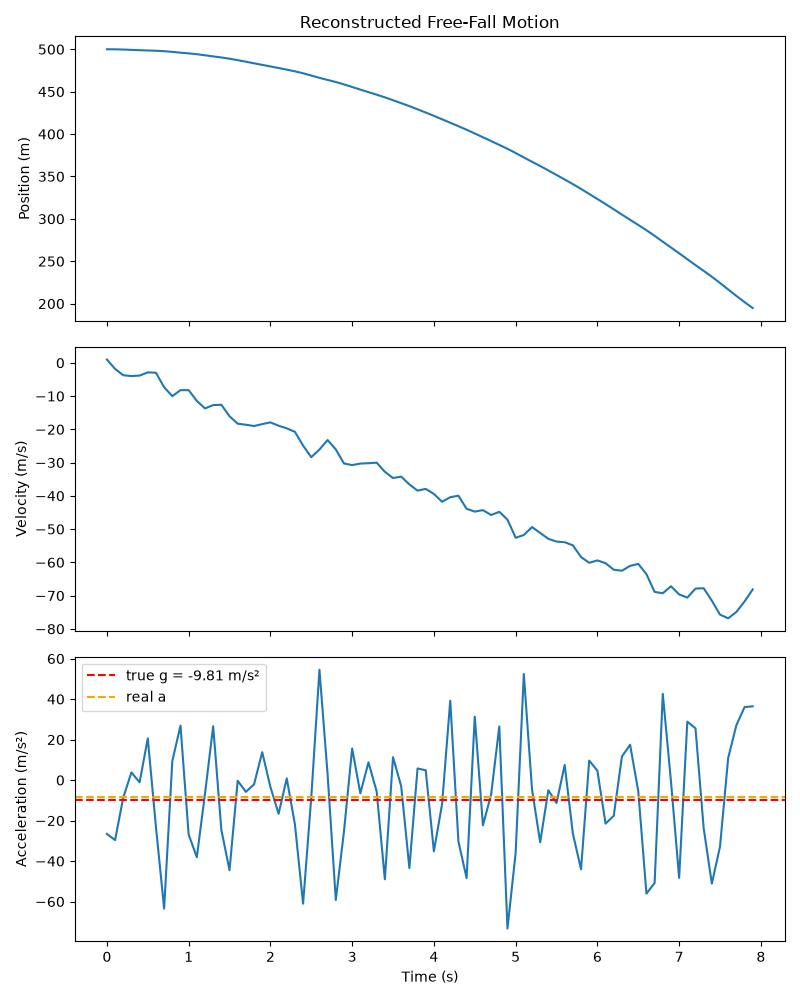
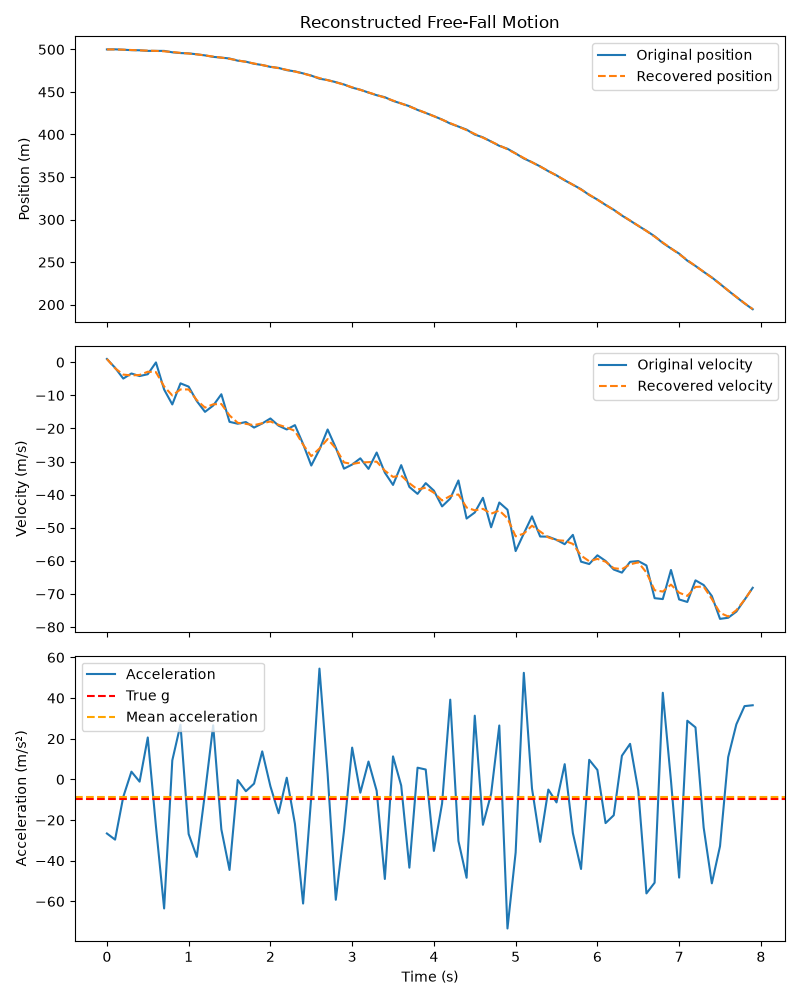
Update coursework: PW1, PW2, PW3 and PW4

diff --git a/PW2/Lab B/warm.py b/PW2/Lab B/warm.py
@@ -1,3 +1,11 @@
+"""
+PW2 Lab B Part 2 -- three routes to a minimum.
+
+Compare gradient descent, Newton, and SLSQP on two functions:
+  2A: f(x) = (x-3)**2 + 1          (easy, one minimum at x=3)
+  2B: g(x) = x**4 - 3*x**2 + x + 5 (harder, several stationary points)
+Run:  python warmup.py
+"""
 import numpy as np
 from scipy.optimize import newton, minimize
 
@@ -6,34 +14,49 @@ def grad_descent(df, x0, lr, tol=1e-8, max_iter=10000):
     for _ in range(max_iter):
         step = lr * df(x)
         x = x - step
-        if abs(step) < tol:
+        if abs(step) < tol:      # stop when the step is tiny
             break
     return x
 
-# ---------- 2A ----------
+# ---------- 2A: easy convex function ----------
 def f(x):   return (x-3)**2 + 1
 def df(x):  return 2*(x-3)
 def d2f(x): return 2.0
 
-print("2A: start x0 = 0")
+
+# TODO 2A: minimise f three ways from x0=0 and print each result:
+#   (1) gradient descent by hand (loop x = x - lr*df(x) until the step is tiny)
+#   (2) scipy.optimize.newton(df, x0, fprime=d2f)
+#   (3) scipy.optimize.minimize(f, x0, method="SLSQP")
+
+
 x_gd = grad_descent(df, 0, lr=0.1)
 x_nw = newton(df, 0, fprime=d2f)
 x_sl = minimize(lambda v: f(v[0]), [0], method="SLSQP").x[0]
 print(f"  gradient descent: x = {x_gd:.5f}")
-print(f"  Newton:           x = {x_nw:.5f}")
-print(f"  SLSQP:            x = {x_sl:.5f}")
+print(f" Newton:            x = {x_nw:.5f}")
+print(f"  SLSQP:             x = {x_sl:.5f}")
 
-# ---------- 2B ----------
+
+# ---------- 2B: harder landscape ----------
 def g(x):   return x**4 - 3*x**2 + x + 5
 def dg(x):  return 4*x**3 - 6*x + 1
 def d2g(x): return 12*x**2 - 6
 
+# TODO 2B: run the same three methods on g, from x0=0 AND from x0=2.
+#   For Newton (which solves dg(x)=0), also check the sign of d2g at the answer:
+#   d2g > 0 means a minimum, d2g < 0 means a maximum.
+#   In your README note: do the methods agree? did Newton find a minimum or
+#   another stationary point? how did the starting point change the result?
+
 for x0 in (0, 2):
-    print(f"\n2B: start x0 = {x0}")
+
     xg = grad_descent(dg, x0, lr=0.01)
     xn = newton(dg, x0, fprime=d2g)
     xs = minimize(lambda v: g(v[0]), [x0], method="SLSQP").x[0]
-    kind = "MINIMUM" if d2g(xn) > 0 else "MAXIMUM"
+
+    kind = "МИНИМУМ" if d2g(xn) > 0 else "МАКСИМУМ"
     print(f"  gradient descent: x = {xg:.5f}, g = {g(xg):.5f}")
-    print(f"  Newton:           x = {xn:.5f}, g = {g(xn):.5f}, g'' = {d2g(xn):.3f} -> {kind}")
-    print(f"  SLSQP:            x = {xs:.5f}, g = {g(xs):.5f}")
+    print(f"  Newton:            x = {xn:.5f}, g = {g(xn):.5f}, "
+          f"g'' = {d2g(xn):.3f} -> {kind}")
+    print(f"  SLSQP:             x = {xs:.5f}, g = {g(xs):.5f}")

diff --git a/PW3/dataframe.py b/PW3/dataframe.py
@@ -108,12 +108,11 @@ print(f"Naive Correlation (Benzene vs Malignancy): {r_benz_naive:.4f}")
 print(f"Naive Correlation (Cadmium vs Malignancy): {r_cad_naive:.4f}")
 
 # Task 7: Accounting for a third variable (Confounder: pollution_index)
-print("\n--- Adjusted Analysis (Controlling for Pollution Index) ---")
 # Restrict data to a narrow band of pollution_index to neutralize its confounding effect
 filtered_df = df_chem[(df_chem["pollution_index"] > 40) & (df_chem["pollution_index"] < 60)]
 
-r_benz_adj, _ = stats.pearsonr(filtered_df["benzene"], filtered_df["malignancy"])
-r_cad_adj, _ = stats.pearsonr(filtered_df["cadmium"], filtered_df["malignancy"])
+r_benz_adj, _ =stats.pearsonr(filtered_df["benzene"],filtered_df["malignancy"])
+r_cad_adj, _ =stats.pearsonr(filtered_df["cadmium"],filtered_df["malignancy"])
 
-print(f"Adjusted Correlation (Benzene vs Malignancy): {r_benz_adj:.4f}")
-print(f"Adjusted Correlation (Cadmium vs Malignancy): {r_cad_adj:.4f}")
+print(f"Adjusted Correlation (Benzene vs Malignancy):{r_benz_adj:.4f}")
+print(f"Adjusted Correlation (Cadmium vs Malignancy):{r_cad_adj:.4f}")

diff --git a/PW1/Lab A/Lab A/test_decay.py b/PW1/Lab A/Lab A/test_decay.py
@@ -1,0 +1,32 @@
+"""
+Tests for the decay simulation.
+
+One complete test is given as a model. Add the two tests described in the
+lab handout (a negative-rate test, and a test against the analytical law).
+Run with:  pytest -v
+"""
+
+import numpy as np
+import pytest
+from decay import simulate, simulate_loop
+
+
+def test_starts_at_N0():
+    # at time zero, no atoms have decayed yet
+    assert simulate(1000, 0.4)[0] == 1000
+
+
+def test_rejects_negative_rate():
+    with pytest.raises(ValueError):
+        simulate(N0=1000, lam=-0.4)
+
+
+def test_matches_law():
+    N0, lam = 1000, 0.4
+    avg=np.mean([simulate(N0,lam) for _ in range(200)], axis=0)
+    t = np.arange(len(avg))
+    expected = N0 * np.exp(-lam * t)
+    assert avg == pytest.approx(expected, rel=0.05)
+#   Check that the simulation's AVERAGE over many seeds is close to the
+#   physical law  N0 * exp(-lam * t).
+#   Which pytest tool compares floating-point values with a tolerance?

diff --git a/README.md b/README.md
@@ -1,102 +1,159 @@
-# CSPC. Computer Science for Physics and Chemistry
+# CSPC - Computer Science for Physics and Chemistry
 
-I store my coursework in this CSPC repository.Each practical file is saved under PW<n>/Lab <X>/.
+My coursework repository. Each practical is under PW<n>/Lab <X>/.
 
 ## Setup
 
 Create the environment for a given lab:
 
-```bash
-
 conda env create -f PW<n>/Lab\ <X>/environment.yml
-
 conda activate cspc
-
-```
 
 ---
 
-## PW1.Lab A:Reproducible Foundations
+## PW1 - Lab A: Reproducible Foundations
 
 **What I built:**
-
--A conda environment,a Git repository that uses a branch and merge workflow,a test suite for the radioactive decay simulation and a speed benchmark that compares a pure-Python loop with a NumPy usage.
+-  A conda environment,a Git repository with a full branch and merge workflow,a test suite for the radioactive decay simulation  and a speed benchmark comparing pure-Python and NumPy implementations.
 
 **Speed comparison (loop vs NumPy):**
+- loop : 1.623 s
+- numpy : 0.0003 s
+- speed-up: 5760.4x faster
 
-loop:1.623 s
+**Tests:** all passing? (yes / no)
+yes 
+**Conclusion:**
+- The vectorized NumPy version was faster than the pure-Python loop-about 5760x on 200000 atoms—confirming that vectorization matters at scale. All three tests pass,including the check that the simulation's average matches the analytical decay law N0*exp(-lam*t) within tolerance.
 
-numpy:0.0003 s
 
-speed-up:5760.4x
-
-**Tests:** all passing? (yes/no)
-
-yes
-
-****
-
--The vectorized NumPy version was way faster than the pure-Python loop by 5760 times when running 200000 atoms,which shows that vectorization does matter when the problem is big.
-
-  -All three tests passed and the test that confirms the simulation average matches the analytical decay law N0*exp(-lam*t) within tolerance passed as well.
-
-## PW1.Lab B:Data,Plotting and Automation
+## PW1 - Lab B: Data, Plotting, and Automation
 
 **What I built:**
-
--A script (plot.py) that reads the observed decay data from decay_observed.csv into two arrays (t and observed) takes N0 as the observed count builds an analytical curve N0*exp(-lambda*t) and creates a 1x2 figure that compares the observed data (scatter) to the analytical law (line) on shared axes.
-
--I automated the pipeline with a Snakefile so that running `snakemake --cores 1 figure.png` regenerates the figure only when the CSV file or the script have changed.
+- A script (plot.py) that reads the observed decay data from decay_observed.csv into
+  two arrays (t and observed), computes N0 as the first observed count, builds the
+  analytical curve N0*exp(-lambda*t), and produces a 1x2 figure comparing the observed
+  data (scatter) to the analytical law (line) on shared axes. Automated the whole
+  pipeline with a Snakefile so that running `snakemake --cores 1 figure.png` regenerates
+  the figure only when the data or script have changed.
 
 **Result:**
-
--The observed data follows the decay curve very closely.Both panels show the downward exponential shape, which proves that the data matches the theoretical N0*exp(-lambda*t) law.
+- The observed data closely follows the analytical decay curve — both panels show the
+  same downward exponential shape, confirming the data matches the theoretical
+  N0*exp(-lambda*t) law reasonably well.
 
 **Snakemake pipeline:**
+- The Snakefile defines one rule that runs plot.py to turn decay_observed.csv into
+  figure.png; Snakemake only reruns the rule when the output is missing or older than
+  its input, so re-running the same command with no changes does nothing.
 
--The Snakefile defines one rule that runs plot.py to turn decay_observed.csv into figure.png.Snakemake reruns the rule when the output is missing or older than its input so it would not do anything if run the same code with no changes.
+**Conclusion:**
+- Reading the CSV with np.loadtxt, building the analytical curve, and plotting both
+  side by side made the comparison straightforward. Automating the figure generation
+  with Snakemake means the plot always stays in sync with the data without manually
+  rerunning the script every time.
 
-****
--Using np.loadtxt to read the CSV and plotting both curves side by side helped make the comparison simpler.
+## PW2 --- Lab A
 
--Automating the figure generation with Snakemake means the plot always stays in sync with the data and I do not need to rerun the script each time again and again.
+**Results:**
+- Mean acceleration: **-8.58 m/s²** — close to the true value of -9.81 m/s², confirming the object is in free fall (the offset is due to measurement noise).
+- Standard deviation of acceleration: **28.72 m/s²** — very large and noisy. This happens because acceleration is obtained from *two* successive numerical differentiations of the position data. Each differentiation compares nearby, slightly noisy measurements and divides by a small time step, which amplifies the noise; doing this twice compounds the effect, so even small measurement noise in position becomes huge swings in acceleration.
+- Max difference between recovered and original position: **0.78 m** — after integrating the noisy acceleration back up to velocity and then position, the recovered position matches the original within about 0.78 metres. This shows that integration (a cumulative sum) partially cancels out random noise, which is the opposite effect of differentiation — the central lesson of this lab.
+
+**Files:** `analysis.py`, `motion.png`, `freefall.csv`, `trajectory.csv` in `PW2/Lab A/`.
+
+
+
+
+
+
+
 
 ## PW2 --- Lab B
 
-### Part 2. Three routes to a minimum
 
-On the convex f(x)=(x-3)^2 + 1 all three methods give x = 3.00000 when x0 = 0.
+### Part 2 — Three routes to a minimum
 
-On g(x)=x^4. 3X^2 + x + 5 the methods dont always agree :
+On the convex f(x) = (x-3)^2 + 1, all three methods give x = 3.00000 from x0 = 0.
 
--Beginning from x0=0, gradient descent (x=-1.30084) and SLSQP (x=-1.30086) reach the minimum g=1.486.
+On g(x) = x^4 - 3x^2 + x + 5 the methods do not always agree:
+- x0 = 0: gradient descent (x = -1.30084) and SLSQP (x = -1.30086) reach the
+  global minimum, g = 1.486. Newton converges to x = 0.16994, where
+  g'' = -5.653 < 0, so it found a local maximum, not a minimum.
+- x0 = 2: gradient descent and Newton reach the local minimum x = 1.13090
+  (g = 3.930, g'' = 9.347 > 0). SLSQP, however, ended at the global minimum
+  x = -1.30064, jumping over the hill.
 
-Newton converges to x=0.16994,where g''=-5.653<0 so Newton found a maximum,not a minimum.
+Conclusions: Newton solves g'(x) = 0, so it can return a maximum; the sign of
+g'' must be checked. On a non-convex function both the starting point and the
+algorithm decide which minimum is found. Only the global minimum (x ≈ -1.30)
+has the lowest value of g.
 
-Starting from x0=2,descent and Newton reach the local minimum x=1.13090 (g=3.930 g''=9.347>0).
 
-SLSQP however ends at the minimum x=-1.30064,jumping over the hill.
+### Part 3 — Reaction rate
+Fitted first-order rate constant: k = 0.2618 (expected ≈ 0.25). The fitted
+curve C0·exp(-kt) passes through the noisy measurements (kinetics.png).
 
-Newton solves g'(x)=0 so it can return a maximum;the sign of g'' must be checked.On a -convex function both the starting point and the algorithm decide which minimum is found.
+### Part 4 — Chemical equilibrium (H2 + I2 ⇌ 2 HI)
 
-### Part 3. Reaction rate
+Starting from 1 mol H2 and 1 mol I2, the equilibrium extent was found in two ways:
+root-finding with `scipy.optimize.newton` and minimisation of `k_imbalance(x)**2`
+with SLSQP. Both methods agree: x = 0.6595.
 
-I fitted a first-order rate k = 0.2618,which is close to the expected 0.25.
-The fitted curve C0*exp(-kt) passes through the measurements shown in kinetics.png.
+Equilibrium composition: H2 = 0.341 mol, I2 = 0.341 mol, HI = 1.319 mol
+(HI = 2x ≈ 1.32 mol, consistent with the expected x ≈ 0.66). Plugging these back
+into [HI]^2 / ([H2][I2]) gives K ≈ 15, so the equilibrium condition is satisfied.
 
-### Part 4. Chemical equilibrium (H2 + I2 <=> 2 HI)
+The plot (equilibrium.png) shows the reactants H2 and I2 decreasing and the
+product HI increasing with the extent x; the equilibrium is marked at x = 0.6595.
 
-Newton (root‑finding) and SLSQP (minimising k_imbalance(x)^2) agree that the value of x is 0.6595.
+### Part 5 (bonus) — Titration equivalence point
 
-The equilibrium composition is H2=0.341 mol,I2=0.341 mol,HI=1.319 mol.
+The slope dpH/dV was computed with `np.gradient(pH, V)`, and the equivalence point
+was taken where the slope is largest (`np.argmax`). The equivalence point is at
+V = 50.00 mL, where the slope reaches its maximum of 4.00 pH/mL. The left plot
+(titration.png) shows the sharp jump of the pH curve, and the right plot shows its
+slope peaking at 50 mL.
 
-Plugging these values back gives an equilibrium K of about 15 so the equilibrium condition holds.
-The plot equilibrium.png shows the reactants falling and HI rising as x increases.
 
-### Part 5 (bonus). Titration equivalence point
 
-I computed the slope dpH/dV with np.gradient.Found its maximum with np.argmax.
 
-The equivalence point is,at V = 50.00 mL,where the maximum slope equals 4.00.
 
-The plot titration.png shows the pH jump and the slope peaking at 50 mL.
+## PW3 - Data,Distributions,Testing,and Causation
+
+**What I built:**
+ This Python script is designed for data analysis. It starts by loading datasets. Then, it looks at how the data is spread out and checks if it follows a normal distribution using statistical tests. After that, it compares different clinical groups with appropriate statistical tests. The script also calculates how different variables relate to each other through correlations and identifies any confounding variables in a dataset that looks at chemical exposure.
+
+### Session 1:Characterising Distributions & Normality
+
+ **Data Inspection**: Loaded `Heart_disease_cleveland_new.csv` (303 rows, 14 columns) and isolated continuous variables: `age`, `chol`, `trestbps`, and `thalach`.
+
+ **Normality Tests (Shapiro-Wilk)**:
+`age`:$p=0.00607$(Non-normal)
+`chol`:$p=0.00000$(Non-normal)
+`trestbps`:$p==0.00000$(Non-normal)
+`thalach`: $p=0.00007$(Non-normal)
+
+-**Reasoning**: As all continuous variables failed normality checks ($p < 0.05$),non-parametric statistical methods (such as the Mann-Whitney U test) were chosen for group comparisons in Session 2.
+
+### Session 2:Drawing Conclusions & Causation
+ **Heart Rate Comparison (`thalach`)**: 
+Disease group mean: $139.26 \pm 1.92$ (SE)
+  Healthy group mean: $158.38 \pm 1.50$ (SE)
+  Mann-Whitney U test result: $U = 5806.50$, $p = 1.86 \times 10^{-13}$.
+
+
+  **Conclusion**: Healthy individuals achieve a statistically significant higher maximum heart rate during stress testing compared to patients with heart disease.
+
+ **Age vs. Maximum Heart Rate**: 
+  Pearson correlation: $r = -0.3938$, $p = 1.11 \times 10^{-12}$.
+
+  **Interpretation**: Maximum heart rate systematically decreases as age increases, reflecting normal physiological aging.
+
+ **Chemical-Exposure Mystery**:
+
+   *Naive Analysis*: Cadmium showed an extremely strong correlation with malignancy ($r = 0.8800$) compared to Benzene ($r = 0.3847$), making Cadmium look like the root cause at first glance.
+   *Controlled Analysis*: After filtering the dataset to control for the confounding variable (`pollution_index` between 40 and 60), the spurious association shifted: Benzene's correlation rose to $r = 0.7016$ while Cadmium dropped to $r = 0.3157$.
+
+   *Conclusion*: **Benzene** is the true chemical driver of tumour malignancy; **Cadmium** only appeared guilty due to confounding by area pollution levels.
+ **Bonus (Category Balance)**: Target proportions are well-balanced at ~54.1% healthy (0) and ~45.9% disease (1).
